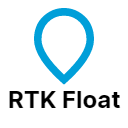
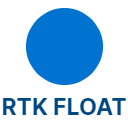
added rtcm indicator

diff --git a/q_ntrip_client.py b/q_ntrip_client.py
@@ -221,8 +221,10 @@ class QNTRIPClient:
     def stopNtripClient(self):
         self.serialStream.stopSerialStream()
         self.out(f'Disconnect serial stream.')
+        self.posIcon(0)
         self.client.stopThreads()
         self.out(f'Ntrip client stopped.')
+        
         
 
     def startNtripClient(self):
@@ -262,6 +264,7 @@ class QNTRIPClient:
             ntripArgs['streams'] = [self.serialStream]
         
             self.client = NtripClient(**ntripArgs)
+            self.client.registerCorrectionDataEventListener(self.updateRtcmState)
             self.out(f'Connect to NTRIP caster {host}.')
         except Exception as e:
             print(f"Fehler beim Starten des Ntrip Clients: {e}")    
@@ -272,6 +275,10 @@ class QNTRIPClient:
         
         self.set_marker(longitude, latitude, data)
         
+        self.posIcon( data['fixtype'])
+        
+    def posIcon(self, fixtype):
+        
         #icon
         ft_icon_no = f'{self.plugin_dir}/noPos.png'
         ft_icon_3d = f'{self.plugin_dir}/pos4.png'
@@ -279,23 +286,34 @@ class QNTRIPClient:
         ft_icon_rtkfix = f'{self.plugin_dir}/pos.png'
         ft_icon_dgps = f'{self.plugin_dir}/pos3.png'
         
-        if(data['fixtype'] == 1):
+        if(fixtype == 1):
             self.dockwidget.fixtypeIcon.setPixmap(QPixmap(ft_icon_3d))
-        elif(data['fixtype'] == 2):
+        elif(fixtype == 2):
             self.dockwidget.fixtypeIcon.setPixmap(QPixmap(ft_icon_dgps))
-        elif(data['fixtype'] == 4):
+        elif(fixtype == 4):
             self.dockwidget.fixtypeIcon.setPixmap(QPixmap(ft_icon_rtkfix))
-        elif(data['fixtype'] == 5):
+        elif(fixtype == 5):
             self.dockwidget.fixtypeIcon.setPixmap(QPixmap(ft_icon_rtkfloat))
-    
         else:
-            self.dockwidget.fixtypeIcon.setPixmap(QPixmap(ft_icon_no))
+            self.dockwidget.fixtypeIcon.setPixmap(QPixmap(ft_icon_no)) 
+    
+    def updateRtcmState(self, rtcmstatus):
+        print('update rtcm state')
+        self.rtcmIcon(rtcmstatus)
+    
+    def rtcmIcon(self, receiveCorrections):
         
         
         
+        #icon
+        rtcm_icon_on = f'{self.plugin_dir}/rtcmOn.png'
+        rtcm_icon_off = f'{self.plugin_dir}/rtcmOff.png'
+    
         
-        
-        
+        if(receiveCorrections == True):
+            self.dockwidget.receiveCorrectionsIcon.setPixmap(QPixmap(rtcm_icon_on))
+        else:
+            self.dockwidget.receiveCorrectionsIcon.setPixmap(QPixmap(rtcm_icon_off)) 
         
      
     def set_marker(self, x, y, data):

diff --git a/ntripClient/ntripClient.py b/ntripClient/ntripClient.py
@@ -70,6 +70,8 @@ class NtripClient(object):
         
         self.socket:socket.socket
         
+        self.events = []
+        
         self.connectionState = False # indicates if ntrip connection has been established.
         
         
@@ -84,6 +86,13 @@ class NtripClient(object):
         self.NtripConnectionThread.start()   #start timer thread
         
 
+    def registerCorrectionDataEventListener(self,callback):
+        self.events.append(callback)
+        print('registerCorrectionDataEventListener')
+
+    def triggerCorrectionDataEvents(self,data):
+        for e in self.events:
+            e(data)
         
     
     def positionUploadTask(self):
@@ -95,6 +104,7 @@ class NtripClient(object):
     def stopThreads(self):
         self.stop_event.set()
         self.stopNtripConnection.set()
+        self.triggerCorrectionDataEvents(False)
         self.connectionState = False
         self.socket.close()
         print('NTRIP client stopped.')
@@ -274,6 +284,7 @@ class NtripClient(object):
                         #print(data)
 
                         for stream in self.serialStreams:
+                            self.triggerCorrectionDataEvents(True)
                             stream.writeToStream(data);
                                 
                         if self.maxConnectTime :
